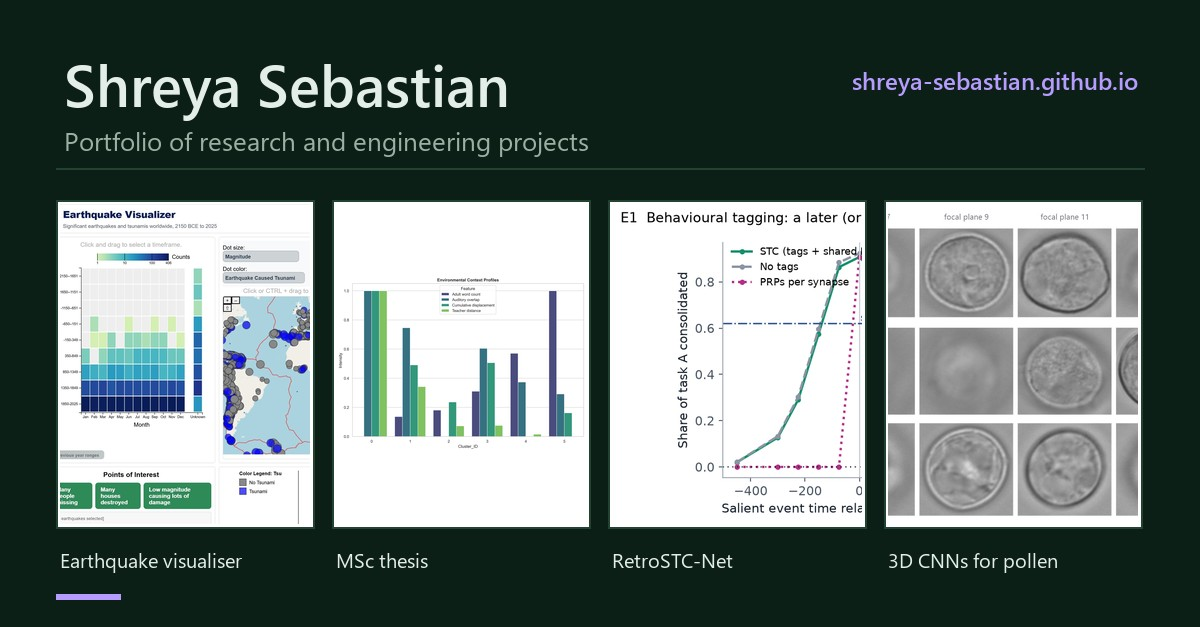
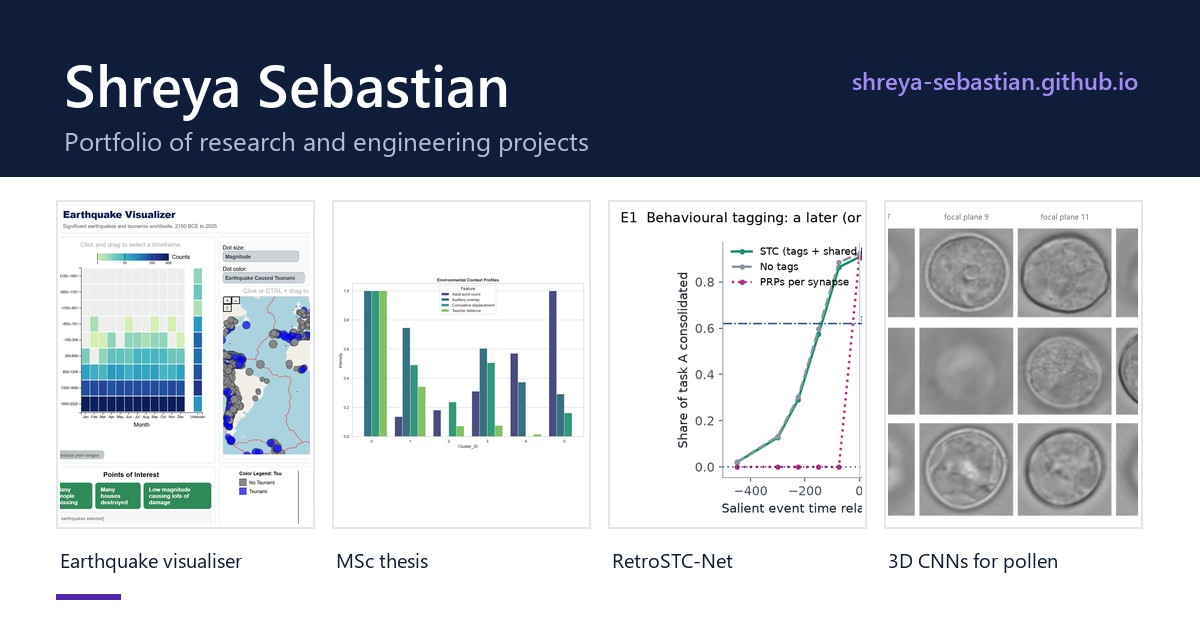
White and navy theme with a deeper purple accent

diff --git a/assets/style.css b/assets/style.css
@@ -1,17 +1,24 @@
 :root {
-  --bg: #0c1f16;
-  --surface: #132b1f;
-  --fg: #e4eee8;
-  --muted: #9bb1a4;
-  --line: #244232;
-  --accent: #b79cff;
-  --accent-soft: #2b2547;
-  --on-accent: #120d24;
-  --code-bg: #10261b;
+  --bg: #ffffff;
+  --surface: #f5f7fb;
+  --fg: #0f1b33;
+  --muted: #55627a;
+  --line: #e1e6ef;
+  --accent: #5426b0;
+  --accent-fill: #5426b0;
+  --accent-soft: #ece6fa;
+  --on-accent: #ffffff;
+  --code-bg: #f1f4f9;
   --display: "Bricolage Grotesque", "Segoe UI", system-ui, sans-serif;
   --body: "Manrope", "Segoe UI", system-ui, sans-serif;
   --mono: "IBM Plex Mono", ui-monospace, Consolas, monospace;
-  color-scheme: dark;
+  color-scheme: light;
+}
+/* dark navy bands: nav, page headers, closing band, footer */
+.nav, .hero, .page-head, .p-hero, .band, footer {
+  --bg: #0f1d3a; --surface: #172a50; --fg: #ffffff; --muted: #b4bfd4;
+  --line: #26395f; --accent: #a58cf5; --accent-soft: #2a2f5e; --code-bg: #172a50;
+  background: var(--bg); color: var(--fg);
 }
 
 * { box-sizing: border-box; }
@@ -28,7 +35,7 @@ a:focus-visible, button:focus-visible { outline: 2px solid var(--accent); outlin
 .narrow { max-width: 760px; }
 
 /* nav */
-.nav { position: sticky; top: 0; z-index: 10; background: color-mix(in srgb, var(--bg) 88%, transparent); backdrop-filter: blur(8px); border-bottom: 1px solid var(--line); }
+.nav { position: sticky; top: 0; z-index: 10; background: color-mix(in srgb, var(--bg) 94%, transparent); backdrop-filter: blur(8px); border-bottom: 1px solid var(--line); }
 .nav .container { display: flex; align-items: center; justify-content: space-between; height: 60px; gap: 16px; }
 .logo { font-family: var(--display); font-weight: 700; font-size: 1.15rem; text-decoration: none; white-space: nowrap; }
 .nav ul { display: flex; gap: 24px; list-style: none; margin: 0; padding: 0; font-size: 0.95rem; }
@@ -42,7 +49,7 @@ h2 { font-family: var(--display); font-weight: 700; font-size: clamp(1.7rem, 4vw
 .eyebrow { font-family: var(--mono); font-size: 0.8rem; color: var(--muted); margin: 0 0 16px; }
 .btn { display: inline-flex; align-items: center; gap: 8px; padding: 11px 19px; border-radius: 10px; font-weight: 600; font-size: 0.95rem; text-decoration: none; border: 1.5px solid var(--fg); transition: transform .15s ease, background .15s ease; }
 .btn:hover { transform: translateY(-2px); }
-.btn.primary { background: var(--accent); color: var(--on-accent); border-color: var(--accent); }
+.btn.primary { background: var(--accent-fill); color: var(--on-accent); border-color: var(--accent-fill); }
 .btn.ghost:hover { background: var(--surface); }
 .btn.small { padding: 8px 14px; font-size: 0.88rem; }
 .actions { display: flex; flex-wrap: wrap; gap: 12px; }
@@ -98,20 +105,20 @@ section.block { padding-block: 64px; border-top: 1px solid var(--line); }
 .more-link { margin-top: auto; padding-top: 6px; font-weight: 600; font-size: 0.9rem; color: var(--accent); }
 
 /* projects index */
-.page-head { padding-block: 64px 32px; }
+.page-head { padding-block: 64px 40px; margin-bottom: 32px; }
 .page-head h1 { font-family: var(--display); font-weight: 700; font-size: clamp(2.3rem, 6vw, 3.6rem); letter-spacing: -0.025em; line-height: 1.05; margin: 0 0 14px; }
 .page-head p { color: var(--muted); font-size: 1.1rem; max-width: 60ch; margin: 0; }
 .filters { display: flex; flex-wrap: wrap; gap: 8px; margin: 28px 0 0; }
 .filters button { font: inherit; font-size: 0.9rem; font-weight: 500; padding: 7px 14px; border-radius: 999px; border: 1px solid var(--line); background: var(--surface); color: var(--muted); cursor: pointer; }
 .filters button:hover { color: var(--fg); }
-.filters button[aria-pressed="true"] { background: var(--accent); color: var(--on-accent); border-color: var(--accent); }
+.filters button[aria-pressed="true"] { background: var(--accent-fill); color: var(--on-accent); border-color: var(--accent-fill); }
 .group { padding-block: 28px 8px; }
 .group h2 { font-size: 1.35rem; margin-bottom: 18px; }
 
 /* project page */
 .crumb { display: inline-flex; gap: 6px; font-size: 0.9rem; color: var(--muted); text-decoration: none; margin-bottom: 22px; }
 .crumb:hover { color: var(--fg); }
-.p-hero { padding-block: 48px 36px; }
+.p-hero { padding-block: 48px 40px; }
 .p-hero h1 { font-family: var(--display); font-weight: 700; font-size: clamp(2.3rem, 6vw, 3.8rem); letter-spacing: -0.025em; line-height: 1.04; margin: 0 0 16px; }
 .p-hero .summary { font-size: 1.2rem; color: var(--muted); max-width: 60ch; margin: 0 0 28px; }
 .p-figure { margin: 0 0 8px; border: 1px solid var(--line); border-radius: 16px; overflow: hidden; background: var(--surface); }
@@ -193,11 +200,11 @@ a.contact-item:hover { border-color: var(--accent); transform: translateY(-2px);
 .contact-note .portrait { width: 120px; height: 120px; border-width: 4px; }
 
 /* closing band */
-.band { background: var(--surface); color: var(--fg); border: 1px solid var(--line); border-radius: 20px; padding: 40px 44px; display: flex; flex-wrap: wrap; align-items: center; justify-content: space-between; gap: 24px; }
+.band { border-radius: 20px; padding: 40px 44px; display: flex; flex-wrap: wrap; align-items: center; justify-content: space-between; gap: 24px; }
 .band h2 { color: var(--fg); }
 .band p { margin: 8px 0 0; opacity: .75; }
 .band .btn { border-color: var(--fg); color: var(--fg); }
-.band .btn.primary { background: var(--accent); color: var(--on-accent); border-color: var(--accent); }
+.band .btn.primary { background: var(--accent-fill); color: var(--on-accent); border-color: var(--accent-fill); }
 
 footer { padding-block: 32px; color: var(--muted); font-size: 0.85rem; border-top: 1px solid var(--line); }
 footer .container { display: flex; flex-wrap: wrap; justify-content: space-between; gap: 12px; }

diff --git a/projects/retrostc-net/index.html b/projects/retrostc-net/index.html
@@ -3,13 +3,13 @@
 <head>
 <meta charset="utf-8">
 <meta name="viewport" content="width=device-width, initial-scale=1">
-<meta name="theme-color" content="#0c1f16">
+<meta name="theme-color" content="#0f1d3a">
 <meta name="description" content="Can an event that happens after learning decide whether a network keeps what it learned? Retroactive consolidation for neural networks, based on synaptic tagging and capture.">
 <meta property="og:type" content="website">
 <meta property="og:site_name" content="Shreya Sebastian">
 <meta property="og:title" content="RetroSTC-Net | Shreya Sebastian">
 <meta property="og:description" content="Can an event that happens after learning decide whether a network keeps what it learned? Retroactive consolidation for neural networks, based on synaptic tagging and capture.">
-<meta property="og:image" content="https://shreya-sebastian.github.io/img/share-card.jpg?v=2">
+<meta property="og:image" content="https://shreya-sebastian.github.io/img/share-card.jpg?v=3">
 <meta property="og:image:width" content="1200">
 <meta property="og:image:height" content="627">
 <meta name="twitter:card" content="summary_large_image">
@@ -20,7 +20,7 @@
 <link rel="preconnect" href="https://fonts.googleapis.com">
 <link rel="preconnect" href="https://fonts.gstatic.com" crossorigin>
 <link rel="stylesheet" href="https://fonts.googleapis.com/css2?family=Bricolage+Grotesque:opsz,wght@12..96,500;12..96,700&family=Manrope:wght@400;500;600&family=IBM+Plex+Mono:wght@400&display=swap">
-<link rel="stylesheet" href="/assets/style.css?v=5e8a20c1">
+<link rel="stylesheet" href="/assets/style.css?v=9a4c7d13">
 </head>
 <body>
 <a class="skip-link" href="#main">Skip to content</a>

diff --git a/projects/msc-thesis/index.html b/projects/msc-thesis/index.html
@@ -3,13 +3,13 @@
 <head>
 <meta charset="utf-8">
 <meta name="viewport" content="width=device-width, initial-scale=1">
-<meta name="theme-color" content="#0c1f16">
+<meta name="theme-color" content="#0f1d3a">
 <meta name="description" content="Automated discovery of latent activity contexts from multimodal sensing, to analyse peer interaction of preschoolers with hearing loss in an inclusive classroom.">
 <meta property="og:type" content="website">
 <meta property="og:site_name" content="Shreya Sebastian">
 <meta property="og:title" content="Social inclusion from sensor data | Shreya Sebastian">
 <meta property="og:description" content="Automated discovery of latent activity contexts from multimodal sensing, to analyse peer interaction of preschoolers with hearing loss in an inclusive classroom.">
-<meta property="og:image" content="https://shreya-sebastian.github.io/img/share-card.jpg?v=2">
+<meta property="og:image" content="https://shreya-sebastian.github.io/img/share-card.jpg?v=3">
 <meta property="og:image:width" content="1200">
 <meta property="og:image:height" content="627">
 <meta name="twitter:card" content="summary_large_image">
@@ -20,7 +20,7 @@
 <link rel="preconnect" href="https://fonts.googleapis.com">
 <link rel="preconnect" href="https://fonts.gstatic.com" crossorigin>
 <link rel="stylesheet" href="https://fonts.googleapis.com/css2?family=Bricolage+Grotesque:opsz,wght@12..96,500;12..96,700&family=Manrope:wght@400;500;600&family=IBM+Plex+Mono:wght@400&display=swap">
-<link rel="stylesheet" href="/assets/style.css?v=5e8a20c1">
+<link rel="stylesheet" href="/assets/style.css?v=9a4c7d13">
 </head>
 <body>
 <a class="skip-link" href="#main">Skip to content</a>

diff --git a/projects/llm-annotation-panel/index.html b/projects/llm-annotation-panel/index.html
@@ -3,13 +3,13 @@
 <head>
 <meta charset="utf-8">
 <meta name="viewport" content="width=device-width, initial-scale=1">
-<meta name="theme-color" content="#0c1f16">
+<meta name="theme-color" content="#0f1d3a">
 <meta name="description" content="Do language models annotate more consistently when they can see how their peers annotated? A panel of LLMs labelling creative thinking in real meeting transcripts.">
 <meta property="og:type" content="website">
 <meta property="og:site_name" content="Shreya Sebastian">
 <meta property="og:title" content="LLM annotation panel | Shreya Sebastian">
 <meta property="og:description" content="Do language models annotate more consistently when they can see how their peers annotated? A panel of LLMs labelling creative thinking in real meeting transcripts.">
-<meta property="og:image" content="https://shreya-sebastian.github.io/img/share-card.jpg?v=2">
+<meta property="og:image" content="https://shreya-sebastian.github.io/img/share-card.jpg?v=3">
 <meta property="og:image:width" content="1200">
 <meta property="og:image:height" content="627">
 <meta name="twitter:card" content="summary_large_image">
@@ -20,7 +20,7 @@
 <link rel="preconnect" href="https://fonts.googleapis.com">
 <link rel="preconnect" href="https://fonts.gstatic.com" crossorigin>
 <link rel="stylesheet" href="https://fonts.googleapis.com/css2?family=Bricolage+Grotesque:opsz,wght@12..96,500;12..96,700&family=Manrope:wght@400;500;600&family=IBM+Plex+Mono:wght@400&display=swap">
-<link rel="stylesheet" href="/assets/style.css?v=5e8a20c1">
+<link rel="stylesheet" href="/assets/style.css?v=9a4c7d13">
 </head>
 <body>
 <a class="skip-link" href="#main">Skip to content</a>

diff --git a/projects/sensor-ingestion/index.html b/projects/sensor-ingestion/index.html
@@ -3,13 +3,13 @@
 <head>
 <meta charset="utf-8">
 <meta name="viewport" content="width=device-width, initial-scale=1">
-<meta name="theme-color" content="#0c1f16">
+<meta name="theme-color" content="#0f1d3a">
 <meta name="description" content="Smart home sensor data that survives network outages: local buffering, chunked resynchronisation and a message queue, tested under failures and load.">
 <meta property="og:type" content="website">
 <meta property="og:site_name" content="Shreya Sebastian">
 <meta property="og:title" content="Fault-tolerant sensor ingestion | Shreya Sebastian">
 <meta property="og:description" content="Smart home sensor data that survives network outages: local buffering, chunked resynchronisation and a message queue, tested under failures and load.">
-<meta property="og:image" content="https://shreya-sebastian.github.io/img/share-card.jpg?v=2">
+<meta property="og:image" content="https://shreya-sebastian.github.io/img/share-card.jpg?v=3">
 <meta property="og:image:width" content="1200">
 <meta property="og:image:height" content="627">
 <meta name="twitter:card" content="summary_large_image">
@@ -20,7 +20,7 @@
 <link rel="preconnect" href="https://fonts.googleapis.com">
 <link rel="preconnect" href="https://fonts.gstatic.com" crossorigin>
 <link rel="stylesheet" href="https://fonts.googleapis.com/css2?family=Bricolage+Grotesque:opsz,wght@12..96,500;12..96,700&family=Manrope:wght@400;500;600&family=IBM+Plex+Mono:wght@400&display=swap">
-<link rel="stylesheet" href="/assets/style.css?v=5e8a20c1">
+<link rel="stylesheet" href="/assets/style.css?v=9a4c7d13">
 </head>
 <body>
 <a class="skip-link" href="#main">Skip to content</a>

diff --git a/projects/earthquake-map/index.html b/projects/earthquake-map/index.html
@@ -3,13 +3,13 @@
 <head>
 <meta charset="utf-8">
 <meta name="viewport" content="width=device-width, initial-scale=1">
-<meta name="theme-color" content="#0c1f16">
+<meta name="theme-color" content="#0f1d3a">
 <meta name="description" content="An interactive web visualisation of significant earthquakes and tsunamis, in which a map, a timeline, a scatterplot and a detail panel filter each other.">
 <meta property="og:type" content="website">
 <meta property="og:site_name" content="Shreya Sebastian">
 <meta property="og:title" content="Earthquake visualiser | Shreya Sebastian">
 <meta property="og:description" content="An interactive web visualisation of significant earthquakes and tsunamis, in which a map, a timeline, a scatterplot and a detail panel filter each other.">
-<meta property="og:image" content="https://shreya-sebastian.github.io/img/share-card.jpg?v=2">
+<meta property="og:image" content="https://shreya-sebastian.github.io/img/share-card.jpg?v=3">
 <meta property="og:image:width" content="1200">
 <meta property="og:image:height" content="627">
 <meta name="twitter:card" content="summary_large_image">
@@ -20,7 +20,7 @@
 <link rel="preconnect" href="https://fonts.googleapis.com">
 <link rel="preconnect" href="https://fonts.gstatic.com" crossorigin>
 <link rel="stylesheet" href="https://fonts.googleapis.com/css2?family=Bricolage+Grotesque:opsz,wght@12..96,500;12..96,700&family=Manrope:wght@400;500;600&family=IBM+Plex+Mono:wght@400&display=swap">
-<link rel="stylesheet" href="/assets/style.css?v=5e8a20c1">
+<link rel="stylesheet" href="/assets/style.css?v=9a4c7d13">
 </head>
 <body>
 <a class="skip-link" href="#main">Skip to content</a>

diff --git a/projects/moneytrail/index.html b/projects/moneytrail/index.html
@@ -3,13 +3,13 @@
 <head>
 <meta charset="utf-8">
 <meta name="viewport" content="width=device-width, initial-scale=1">
-<meta name="theme-color" content="#0c1f16">
+<meta name="theme-color" content="#0f1d3a">
 <meta name="description" content="How far can you get from bank export files alone? A local tool that resolves merchants and detects recurring payments, without the data leaving your computer.">
 <meta property="og:type" content="website">
 <meta property="og:site_name" content="Shreya Sebastian">
 <meta property="og:title" content="Moneytrail | Shreya Sebastian">
 <meta property="og:description" content="How far can you get from bank export files alone? A local tool that resolves merchants and detects recurring payments, without the data leaving your computer.">
-<meta property="og:image" content="https://shreya-sebastian.github.io/img/share-card.jpg?v=2">
+<meta property="og:image" content="https://shreya-sebastian.github.io/img/share-card.jpg?v=3">
 <meta property="og:image:width" content="1200">
 <meta property="og:image:height" content="627">
 <meta name="twitter:card" content="summary_large_image">
@@ -20,7 +20,7 @@
 <link rel="preconnect" href="https://fonts.googleapis.com">
 <link rel="preconnect" href="https://fonts.gstatic.com" crossorigin>
 <link rel="stylesheet" href="https://fonts.googleapis.com/css2?family=Bricolage+Grotesque:opsz,wght@12..96,500;12..96,700&family=Manrope:wght@400;500;600&family=IBM+Plex+Mono:wght@400&display=swap">
-<link rel="stylesheet" href="/assets/style.css?v=5e8a20c1">
+<link rel="stylesheet" href="/assets/style.css?v=9a4c7d13">
 </head>
 <body>
 <a class="skip-link" href="#main">Skip to content</a>

diff --git a/projects/ar-gestures/index.html b/projects/ar-gestures/index.html
@@ -3,13 +3,13 @@
 <head>
 <meta charset="utf-8">
 <meta name="viewport" content="width=device-width, initial-scale=1">
-<meta name="theme-color" content="#0c1f16">
+<meta name="theme-color" content="#0f1d3a">
 <meta name="description" content="Real-time hand tracking in the browser that maps five gestures to elemental effects anchored to the palm, with no build step and nothing to install.">
 <meta property="og:type" content="website">
 <meta property="og:site_name" content="Shreya Sebastian">
 <meta property="og:title" content="AR gestures | Shreya Sebastian">
 <meta property="og:description" content="Real-time hand tracking in the browser that maps five gestures to elemental effects anchored to the palm, with no build step and nothing to install.">
-<meta property="og:image" content="https://shreya-sebastian.github.io/img/share-card.jpg?v=2">
+<meta property="og:image" content="https://shreya-sebastian.github.io/img/share-card.jpg?v=3">
 <meta property="og:image:width" content="1200">
 <meta property="og:image:height" content="627">
 <meta name="twitter:card" content="summary_large_image">
@@ -20,7 +20,7 @@
 <link rel="preconnect" href="https://fonts.googleapis.com">
 <link rel="preconnect" href="https://fonts.gstatic.com" crossorigin>
 <link rel="stylesheet" href="https://fonts.googleapis.com/css2?family=Bricolage+Grotesque:opsz,wght@12..96,500;12..96,700&family=Manrope:wght@400;500;600&family=IBM+Plex+Mono:wght@400&display=swap">
-<link rel="stylesheet" href="/assets/style.css?v=5e8a20c1">
+<link rel="stylesheet" href="/assets/style.css?v=9a4c7d13">
 </head>
 <body>
 <a class="skip-link" href="#main">Skip to content</a>

diff --git a/projects/deep-learning-reproduction/index.html b/projects/deep-learning-reproduction/index.html
@@ -3,13 +3,13 @@
 <head>
 <meta charset="utf-8">
 <meta name="viewport" content="width=device-width, initial-scale=1">
-<meta name="theme-color" content="#0c1f16">
+<meta name="theme-color" content="#0f1d3a">
 <meta name="description" content="A reproduction of “Multi-view underwater image enhancement method via embedded fusion mechanism” for the CS4240 Deep Learning course.">
 <meta property="og:type" content="website">
 <meta property="og:site_name" content="Shreya Sebastian">
 <meta property="og:title" content="Deep learning paper reproduction | Shreya Sebastian">
 <meta property="og:description" content="A reproduction of “Multi-view underwater image enhancement method via embedded fusion mechanism” for the CS4240 Deep Learning course.">
-<meta property="og:image" content="https://shreya-sebastian.github.io/img/share-card.jpg?v=2">
+<meta property="og:image" content="https://shreya-sebastian.github.io/img/share-card.jpg?v=3">
 <meta property="og:image:width" content="1200">
 <meta property="og:image:height" content="627">
 <meta name="twitter:card" content="summary_large_image">
@@ -20,7 +20,7 @@
 <link rel="preconnect" href="https://fonts.googleapis.com">
 <link rel="preconnect" href="https://fonts.gstatic.com" crossorigin>
 <link rel="stylesheet" href="https://fonts.googleapis.com/css2?family=Bricolage+Grotesque:opsz,wght@12..96,500;12..96,700&family=Manrope:wght@400;500;600&family=IBM+Plex+Mono:wght@400&display=swap">
-<link rel="stylesheet" href="/assets/style.css?v=5e8a20c1">
+<link rel="stylesheet" href="/assets/style.css?v=9a4c7d13">
 </head>
 <body>
 <a class="skip-link" href="#main">Skip to content</a>

diff --git a/projects/tech-jobs-radar/index.html b/projects/tech-jobs-radar/index.html
@@ -3,13 +3,13 @@
 <head>
 <meta charset="utf-8">
 <meta name="viewport" content="width=device-width, initial-scale=1">
-<meta name="theme-color" content="#0c1f16">
+<meta name="theme-color" content="#0f1d3a">
 <meta name="description" content="A job board for tech vacancies in the Netherlands, read directly from employers&#x27; own career sites, with every posting classified and tagged.">
 <meta property="og:type" content="website">
 <meta property="og:site_name" content="Shreya Sebastian">
 <meta property="og:title" content="Tech Jobs Radar | Shreya Sebastian">
 <meta property="og:description" content="A job board for tech vacancies in the Netherlands, read directly from employers&#x27; own career sites, with every posting classified and tagged.">
-<meta property="og:image" content="https://shreya-sebastian.github.io/img/share-card.jpg?v=2">
+<meta property="og:image" content="https://shreya-sebastian.github.io/img/share-card.jpg?v=3">
 <meta property="og:image:width" content="1200">
 <meta property="og:image:height" content="627">
 <meta name="twitter:card" content="summary_large_image">
@@ -20,7 +20,7 @@
 <link rel="preconnect" href="https://fonts.googleapis.com">
 <link rel="preconnect" href="https://fonts.gstatic.com" crossorigin>
 <link rel="stylesheet" href="https://fonts.googleapis.com/css2?family=Bricolage+Grotesque:opsz,wght@12..96,500;12..96,700&family=Manrope:wght@400;500;600&family=IBM+Plex+Mono:wght@400&display=swap">
-<link rel="stylesheet" href="/assets/style.css?v=5e8a20c1">
+<link rel="stylesheet" href="/assets/style.css?v=9a4c7d13">
 </head>
 <body>
 <a class="skip-link" href="#main">Skip to content</a>

diff --git a/projects/bsc-thesis/index.html b/projects/bsc-thesis/index.html
@@ -3,13 +3,13 @@
 <head>
 <meta charset="utf-8">
 <meta name="viewport" content="width=device-width, initial-scale=1">
-<meta name="theme-color" content="#0c1f16">
+<meta name="theme-color" content="#0f1d3a">
 <meta name="description" content="Enhancing pollen classification accuracy through the use of whole stack images in 3D convolutional neural networks.">
 <meta property="og:type" content="website">
 <meta property="og:site_name" content="Shreya Sebastian">
 <meta property="og:title" content="3D CNNs for pollen classification | Shreya Sebastian">
 <meta property="og:description" content="Enhancing pollen classification accuracy through the use of whole stack images in 3D convolutional neural networks.">
-<meta property="og:image" content="https://shreya-sebastian.github.io/img/share-card.jpg?v=2">
+<meta property="og:image" content="https://shreya-sebastian.github.io/img/share-card.jpg?v=3">
 <meta property="og:image:width" content="1200">
 <meta property="og:image:height" content="627">
 <meta name="twitter:card" content="summary_large_image">
@@ -20,7 +20,7 @@
 <link rel="preconnect" href="https://fonts.googleapis.com">
 <link rel="preconnect" href="https://fonts.gstatic.com" crossorigin>
 <link rel="stylesheet" href="https://fonts.googleapis.com/css2?family=Bricolage+Grotesque:opsz,wght@12..96,500;12..96,700&family=Manrope:wght@400;500;600&family=IBM+Plex+Mono:wght@400&display=swap">
-<link rel="stylesheet" href="/assets/style.css?v=5e8a20c1">
+<link rel="stylesheet" href="/assets/style.css?v=9a4c7d13">
 </head>
 <body>
 <a class="skip-link" href="#main">Skip to content</a>

diff --git a/projects/index.html b/projects/index.html
@@ -3,13 +3,13 @@
 <head>
 <meta charset="utf-8">
 <meta name="viewport" content="width=device-width, initial-scale=1">
-<meta name="theme-color" content="#0c1f16">
+<meta name="theme-color" content="#0f1d3a">
 <meta name="description" content="Projects by Shreya Sebastian: research, machine learning, data and software engineering.">
 <meta property="og:type" content="website">
 <meta property="og:site_name" content="Shreya Sebastian">
 <meta property="og:title" content="Projects | Shreya Sebastian">
 <meta property="og:description" content="Projects by Shreya Sebastian: research, machine learning, data and software engineering.">
-<meta property="og:image" content="https://shreya-sebastian.github.io/img/share-card.jpg?v=2">
+<meta property="og:image" content="https://shreya-sebastian.github.io/img/share-card.jpg?v=3">
 <meta property="og:image:width" content="1200">
 <meta property="og:image:height" content="627">
 <meta name="twitter:card" content="summary_large_image">
@@ -20,7 +20,7 @@
 <link rel="preconnect" href="https://fonts.googleapis.com">
 <link rel="preconnect" href="https://fonts.gstatic.com" crossorigin>
 <link rel="stylesheet" href="https://fonts.googleapis.com/css2?family=Bricolage+Grotesque:opsz,wght@12..96,500;12..96,700&family=Manrope:wght@400;500;600&family=IBM+Plex+Mono:wght@400&display=swap">
-<link rel="stylesheet" href="/assets/style.css?v=5e8a20c1">
+<link rel="stylesheet" href="/assets/style.css?v=9a4c7d13">
 </head>
 <body>
 <a class="skip-link" href="#main">Skip to content</a>
